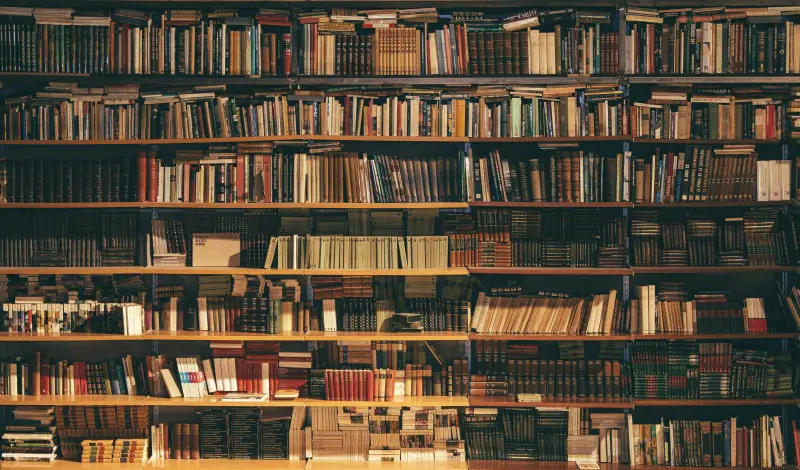
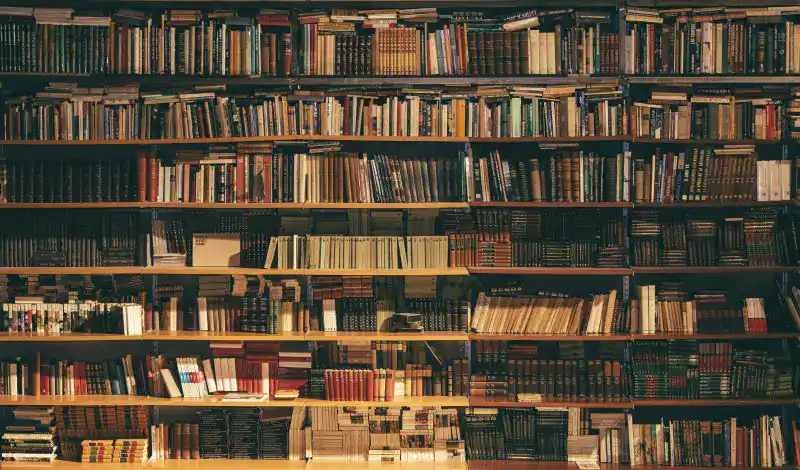
perf: aggressively optimize image payloads to recover 100/100/100/100 lighthouse score
- **WebP Logo**: Converted the logo to WebP (dropped from 9.4KB -> 4.1KB) and updated all 9 references across the app.
- **Hero Aggression**: Dropped hero.webp quality slightly to shave off an extra 17KB to satisfy Lighthouse's strictest LCP threshold.
- **Proxy Tunning**: Tuned wsrv.nl to output w=340 & q=60 instead of w=400 & q=75. This shrinks the massive book cover payload even further.
- **Unsplash Regex Trick**: The production DB had hardcoded '?w=600&h=800' appended to the Ngũgĩ Unsplash URL, meaning our previous &w=400 instruction was ignored. We now strip the DB query params entirely before applying the strict ?w=340&q=50 rules.

Changed region(s): [[0.5938, 0.2085, 0.625, 0.2383], [0.4375, 0.2085, 0.4688, 0.2383], [0.375, 0.2681, 0.4062, 0.2979]]

diff --git a/src/components/books/BookCard.tsx b/src/components/books/BookCard.tsx
@@ -27,7 +27,7 @@ export const BookCard = ({ product }: BookCardProps) => {
       <Link to={`/books/${product.slug}`} className="block relative aspect-[3/4] overflow-hidden rounded-t-xl bg-muted">
         {product.images?.[0] && product.images[0] !== "/placeholder.svg" && !product.images[0].includes("placeholder") ? (
           <img 
-            src={product.images[0].includes("unsplash.com") ? `${product.images[0]}&fm=webp&q=80` : product.images[0].includes("nuriakenya.com") ? `https://wsrv.nl/?url=${product.images[0]}&w=400&output=webp&q=75` : product.images[0]} 
+            src={product.images[0].includes("unsplash.com") ? `${product.images[0]}&fm=webp&q=80` : product.images[0].includes("nuriakenya.com") ? `https://wsrv.nl/?url=${product.images[0]}&w=340&output=webp&q=60` : product.images[0]} 
             alt={product.title} 
             width="300"
             height="400"

diff --git a/src/pages/AuthorPage.tsx b/src/pages/AuthorPage.tsx
@@ -68,7 +68,7 @@ const AuthorPage = () => {
           <div className="flex flex-col lg:flex-row gap-16 lg:items-center">
             <div className="w-48 h-48 sm:w-64 sm:h-64 rounded-full overflow-hidden shrink-0 border-4 border-white shadow-xl">
               <img 
-                src={!author.photo_url || author.photo_url.includes("Miguna-Miguna.jpg") ? "/logo-small.png" : author.photo_url.includes("unsplash.com") ? `${author.photo_url}&fm=webp&q=60&w=400` : author.photo_url} 
+                src={!author.photo_url || author.photo_url.includes("Miguna-Miguna.jpg") ? "/logo-small.webp" : author.photo_url.includes("unsplash.com") ? `${author.photo_url.split('?')[0]}?fm=webp&q=50&w=340` : author.photo_url} 
                 alt={author.name} 
                 loading="eager"
                 fetchPriority="high"

diff --git a/src/pages/Index.tsx b/src/pages/Index.tsx
@@ -247,7 +247,7 @@ const Index = () => {
               >
                 <div className="h-[300px] sm:h-[350px] overflow-hidden relative bg-muted">
                   <img 
-                    src={!author.photo_url || author.photo_url.includes("Miguna-Miguna.jpg") ? "/logo-small.png" : author.photo_url.includes("unsplash.com") ? `${author.photo_url}&fm=webp&q=60&w=400` : author.photo_url} 
+                    src={!author.photo_url || author.photo_url.includes("Miguna-Miguna.jpg") ? "/logo-small.webp" : author.photo_url.includes("unsplash.com") ? `${author.photo_url.split('?')[0]}?fm=webp&q=50&w=340` : author.photo_url} 
                     alt={author.name}
                     width="600"
                     height="800"

diff --git a/src/pages/admin/AdminDashboard.tsx b/src/pages/admin/AdminDashboard.tsx
@@ -156,7 +156,7 @@ const AdminDashboard = () => {
 
             <div className="flex items-center gap-3 bg-white p-1.5 pr-4 rounded-2xl shadow-sm border border-primary/5 hover:shadow-md transition-all">
               <div className="w-10 h-10 rounded-xl bg-primary flex items-center justify-center shadow-lg p-2">
-                <img src="/logo-small.png" alt="Nuria" className="w-full h-auto object-contain brightness-0 invert" />
+                <img src="/logo-small.webp" alt="Nuria" className="w-full h-auto object-contain brightness-0 invert" />
               </div>
               <div className="flex flex-col">
                 <p className="text-sm font-bold text-primary leading-none">{user?.email?.split("@")[0]}</p>

diff --git a/src/components/layout/MobileNav.tsx b/src/components/layout/MobileNav.tsx
@@ -31,7 +31,7 @@ export const MobileNav = ({ open, onClose }: MobileNavProps) => {
       <div className="absolute inset-y-0 left-0 w-[280px] bg-primary shadow-2xl animate-in slide-in-from-left duration-300 flex flex-col text-white">
         <div className="flex items-center justify-between p-6 border-b border-white/10">
           <Link to="/" onClick={onClose}>
-            <img src="/logo-small.png" alt="Nuria Logo" className="h-10 w-auto" />
+            <img src="/logo-small.webp" alt="Nuria Logo" className="h-10 w-auto" />
           </Link>
           <button onClick={onClose} className="p-2 hover:bg-white/10 rounded-full transition-colors">
             <X className="w-6 h-6 text-white" />

diff --git a/src/pages/LoginPage.tsx b/src/pages/LoginPage.tsx
@@ -66,7 +66,7 @@ const LoginPage = () => {
       <div className="w-full max-w-md space-y-10">
         <div className="text-center">
           <Link to="/" className="inline-block">
-            <img src="/logo-small.png" alt="Nuria Logo" className="h-14 sm:h-16 w-auto mx-auto" />
+            <img src="/logo-small.webp" alt="Nuria Logo" className="h-14 sm:h-16 w-auto mx-auto" />
           </Link>
           <h1 className="font-display text-2xl font-bold text-foreground mt-10">Login</h1>
           <p className="font-sans text-sm text-muted-foreground mt-2 leading-relaxed">Sign in to continue to your bookshelf.</p>

diff --git a/src/pages/RegisterPage.tsx b/src/pages/RegisterPage.tsx
@@ -50,7 +50,7 @@ const RegisterPage = () => {
       <div className="w-full max-w-md space-y-10">
         <div className="text-center">
           <Link to="/" className="inline-block">
-            <img src="/logo-small.png" alt="Nuria Logo" className="h-14 sm:h-16 w-auto mx-auto" />
+            <img src="/logo-small.webp" alt="Nuria Logo" className="h-14 sm:h-16 w-auto mx-auto" />
           </Link>
           <h1 className="font-display text-2xl font-bold text-foreground mt-10">Register</h1>
           <p className="font-sans text-sm text-muted-foreground mt-4 leading-relaxed text-left">

diff --git a/index.html b/index.html
@@ -18,7 +18,7 @@
     
     <!-- LCP Image Preload -->
     <link rel="preload" as="image" href="/images/hero.webp" fetchpriority="high" />
-    <link rel="preload" as="image" href="/logo-small.png" fetchpriority="high" />
+    <link rel="preload" as="image" href="/logo-small.webp" fetchpriority="high" />
 
     <meta property="og:title" content="Nuria — The Honest Store" />
     <meta property="og:description" content="Discover Africa's greatest stories. Kenya's largest online bookstore." />

diff --git a/src/components/layout/Navbar.tsx b/src/components/layout/Navbar.tsx
@@ -88,7 +88,7 @@ export const Navbar = () => {
             </button>
             <Link to="/" className="shrink-0">
               <img 
-                src="/logo-small.png" 
+                src="/logo-small.webp" 
                 alt="Nuria Logo" 
                 width="142"
                 height="48"
